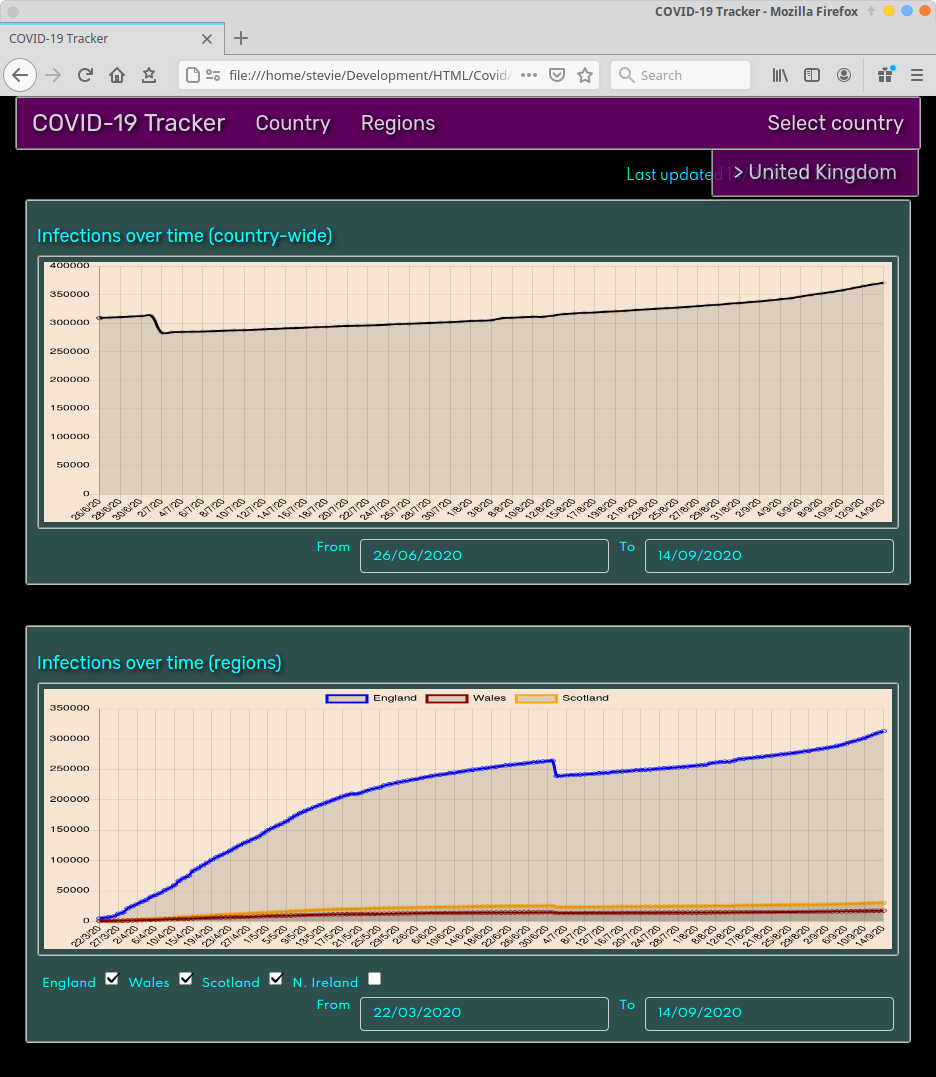
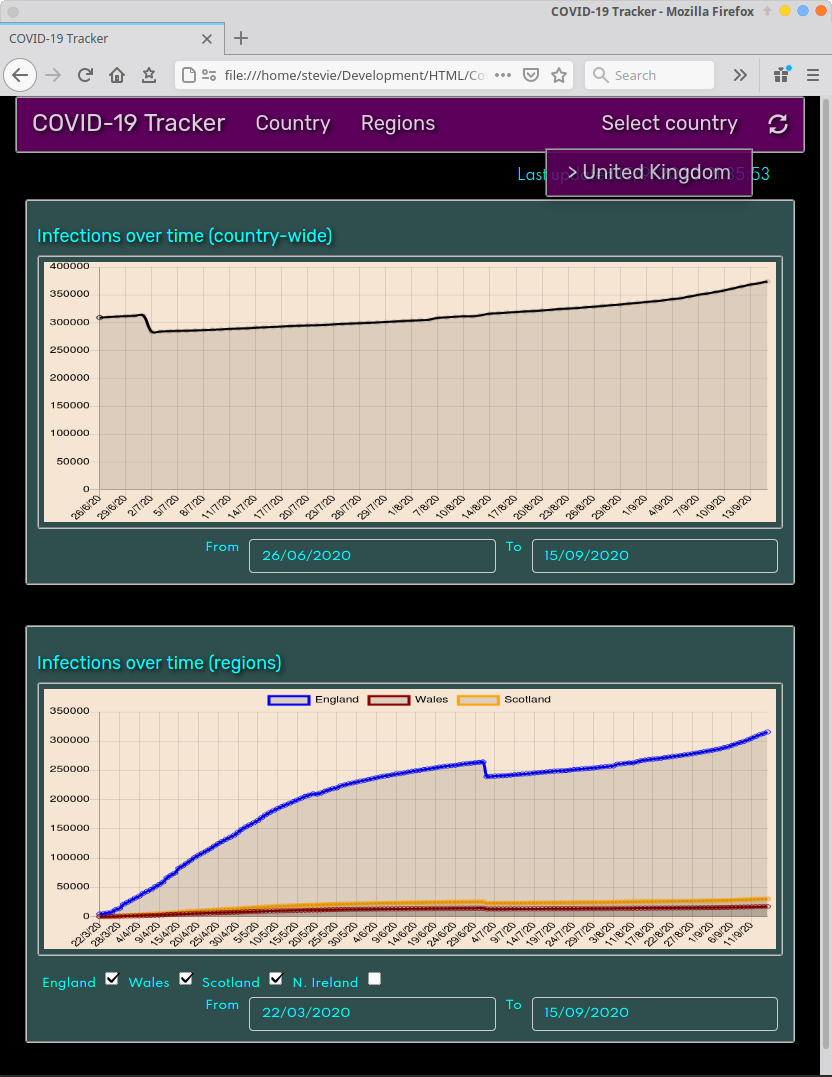
Add refresh button

diff --git a/index.html b/index.html
@@ -65,11 +65,12 @@
                     <li><a href="#reg">Regions</a></li>
                 </ul>
                 <ul class="nav navbar-nav navbar-right">
-                    <li><a href="#" id="navbarDropdown" role="button" data-toggle="dropdown" aria-haspopup="true" aria-expanded="false">Select country</a>
+                    <li><a href="#" id="navbarDropdown" role="" data-toggle="dropdown" aria-haspopup="true" aria-expanded="false">Select country</a>
                         <ul id="dropdownMenu" class="dropdown-menu" aria-labelledby="navbarDropdown">
                             <li><a class="navbar_selected" href="#">United Kingdom</a></li>
                         </ul>
                     </li>
+                    <li><a id="refresh_button" onclick="retrieveAndProcessData()"><span class="glyphicon glyphicon-refresh" aria-hidden="true"></span></a></li>
                 </ul>
             </div><!-- /.navbar-collapse -->
         </div><!-- /.container-fluid -->

diff --git a/data_processing.js b/data_processing.js
@@ -341,16 +341,20 @@ function startLoading() {
 
     $("#status_panel_text").text("Retrieving data");
     $("#loader_1").css("visibility", "visible");
-
+    $("#refresh_button").css("pointer-events", "none");
 }
 
 function stopLoading(msg) {
 
     $("#status_panel_text").text(msg);
     $("#loader_1").css("visibility", "hidden");
+    $("#refresh_button").css("pointer-events", "auto");
 }
 
 function retrieveAndProcessData() {
+
+    dataStore.cleanUKDataInfected = [];
+    dataStore.cleanRegDataInfected = [];
 
     startLoading();
     updateDatePickers();
